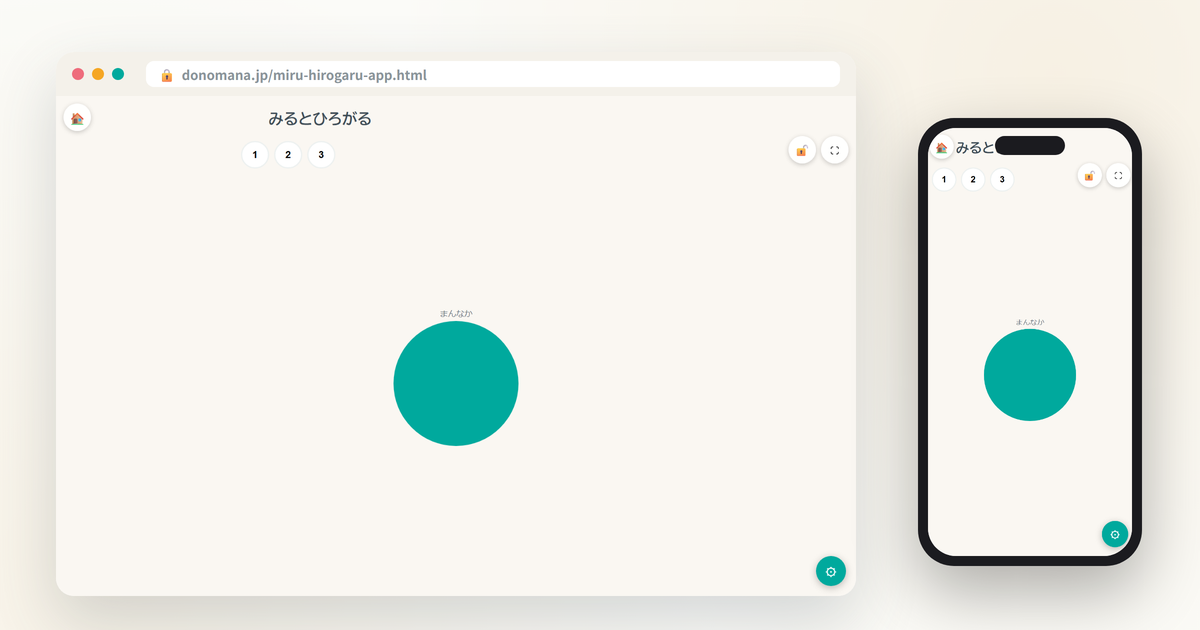
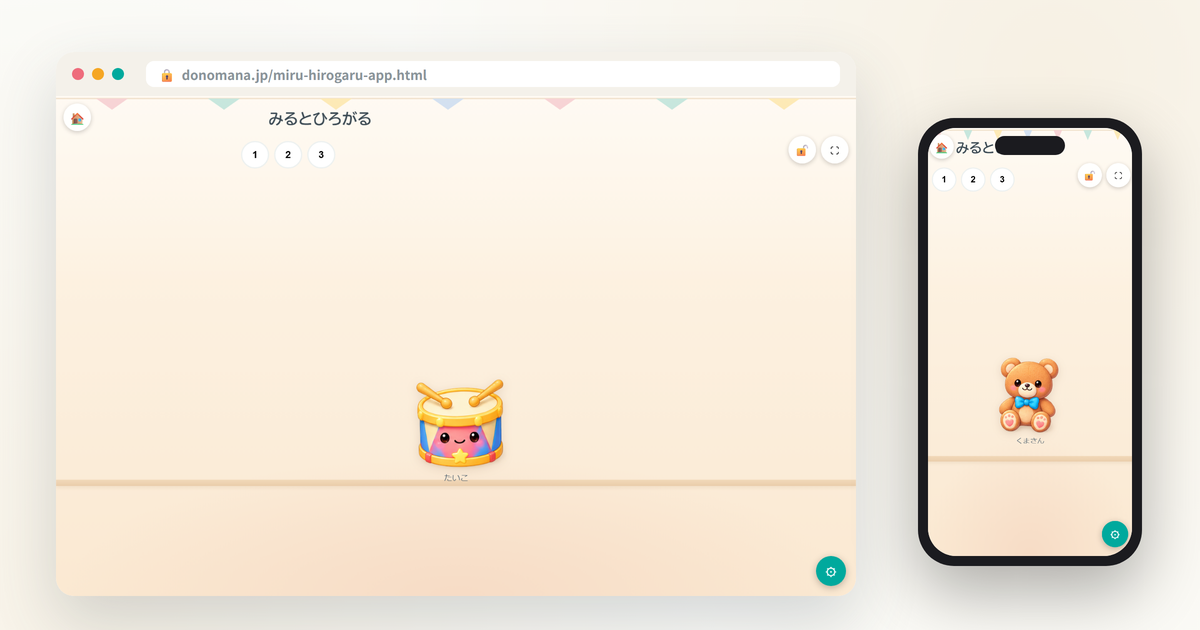
feat: release miru hirogaru engagement redesign
Bring the miru-hirogaru-app.html and apps-data.json descriptions in sync
with the Phase M8 Engagement Redesign (already merged to main): fix a few
app-details/app-intro/index.html text fragments that still described the
old circle/square/triangle "color spreading" targets, add a changelog entry,
and regenerate the toy-room mockup image (assets/icons unchanged since its
inputs are unaffected by the visual redesign).

Regenerated via node generate.js + tools/make-mockups.py miru-hirogaru-app.

diff --git a/app-details/miru-hirogaru-app-detail.html b/app-details/miru-hirogaru-app-detail.html
@@ -4,7 +4,7 @@
 <meta charset="UTF-8">
 <meta name="viewport" content="width=device-width, initial-scale=1.0">
 <title>みるとひろがる 重度・重複障害向け因果関係学習アプリ 無料｜スイッチ・視線入力対応 - どのまな</title>
-<meta name="description" content="見る・触れる・スイッチを押すと画面が広がって変化する無料学習アプリ。正解・不正解のないsuccess-only設計で、重度・重複障害のある子どもの因果関係理解を育てます。タッチ・視線入力・スイッチスキャン・キーボードに対応。">
+<meta name="description" content="見る・触れる・スイッチを押すと、おもちゃが動いたり音が鳴ったりして応えてくれる無料学習アプリ。正解・不正解のないsuccess-only設計で、重度・重複障害のある子どもの因果関係理解を育てます。タッチ・視線入力・スイッチスキャン・キーボードに対応。">
 <meta name="keywords" content="因果関係 学習 アプリ 無料, 重度重複障害 教材, スイッチスキャン 視線入力 学習アプリ, スイッチスキャン対応, スイッチ教材, 視線入力対応, 視線入力アプリ, 認知支援, 療育, 見る, 触れる, スイッチ, 視線入力, 因果関係, 重度重複障害, 特別支援教育, ICT教材, 無料教材, 特別支援学校, 特別支援学級, デジタル教材, ブラウザ教材, インストール不要">
 <meta name="author" content="どのまな">
 
@@ -13,7 +13,7 @@
 
 <!-- Open Graph / SNS共有用 -->
 <meta property="og:title" content="みるとひろがる 重度・重複障害向け因果関係学習アプリ 無料｜スイッチ・視線入力対応 - どのまな">
-<meta property="og:description" content="見る・触れる・スイッチを押すと画面が広がって変化する無料学習アプリ。正解・不正解のないsuccess-only設計で、重度・重複障害のある子どもの因果関係理解を育てます。タッチ・視線入力・スイッチスキャン・キーボードに対応。">
+<meta property="og:description" content="見る・触れる・スイッチを押すと、おもちゃが動いたり音が鳴ったりして応えてくれる無料学習アプリ。正解・不正解のないsuccess-only設計で、重度・重複障害のある子どもの因果関係理解を育てます。タッチ・視線入力・スイッチスキャン・キーボードに対応。">
 <meta property="og:type" content="website">
 <meta property="og:url" content="https://donomana.jp/app-details/miru-hirogaru-app-detail.html">
 <meta property="og:locale" content="ja_JP">
@@ -25,7 +25,7 @@
 <!-- Twitter Card -->
 <meta name="twitter:card" content="summary_large_image">
 <meta name="twitter:title" content="みるとひろがる｜認知支援アプリ(特別支援教育・無料)|スイッチ・視線入力対応">
-<meta name="twitter:description" content="見る・触れる・スイッチを押すと画面が広がって変化する無料学習アプリ。正解・不正解のないsuccess-only設計で、重度・重複障害のある子どもの因果関係理解を育てます。タッチ・視線入力・スイッチスキャン・キーボードに対応。">
+<meta name="twitter:description" content="見る・触れる・スイッチを押すと、おもちゃが動いたり音が鳴ったりして応えてくれる無料学習アプリ。正解・不正解のないsuccess-only設計で、重度・重複障害のある子どもの因果関係理解を育てます。タッチ・視線入力・スイッチスキャン・キーボー">
 <meta name="twitter:image" content="https://donomana.jp/assets/mockups/miru-hirogaru-app.png">
 
 <!-- 構造化データ(JSON-LD) -->
@@ -37,7 +37,7 @@
     "LearningResource"
   ],
   "name": "みるとひろがる",
-  "description": "見る・触れる・スイッチを押すと画面が広がって変化する、初期的な因果関係を楽しむ教材です。タッチ、キーボード、スイッチ、視線入力など、一人ひとりに合った方法で参加できます。正解・不正解はなく、働きかけた",
+  "description": "見る・触れる・スイッチを押すと、おもちゃが動いたり音が鳴ったりして応えてくれる、初期的な因果関係を楽しむ教材です。タッチ、キーボード、スイッチ、視線入力など、一人ひとりに合った方法で参加できます。正解",
   "url": "https://donomana.jp/app-details/miru-hirogaru-app-detail.html",
   "image": "https://donomana.jp/assets/mockups/miru-hirogaru-app.png",
   "applicationCategory": "EducationalApplication",
@@ -215,22 +215,22 @@
   </a>
   <div class="card">
     <h2 class="card-title">概要・ねらい</h2>
-    <p class="summary-text">見る・触れる・スイッチを押すと画面が広がって変化する、初期的な因果関係を楽しむ教材です。タッチ、キーボード、スイッチ、視線入力など、一人ひとりに合った方法で参加できます。正解・不正解はなく、働きかけたこと自体が成功として扱われます。</p>
+    <p class="summary-text">見る・触れる・スイッチを押すと、おもちゃが動いたり音が鳴ったりして応えてくれる、初期的な因果関係を楽しむ教材です。タッチ、キーボード、スイッチ、視線入力など、一人ひとりに合った方法で参加できます。正解・不正解はなく、働きかけたこと自体が成功として扱われます。</p>
   </div>
   <div class="card">
     <h2 class="card-title">主な機能</h2>
     <div class="feature-grid">
       <div class="feature-item">
-        <span class="fi-icon">⭕</span>
-        <span class="fi-text"><strong>レベル1：ひとつ</strong><br>画面中央の大きな1つの的に働きかけると、色がやさしく広がって変化します。正解・不正解はありません。</span>
+        <span class="fi-icon">🧸</span>
+        <span class="fi-text"><strong>レベル1：ひとつ</strong><br>画面中央の大きな1つのおもちゃに働きかけると、動いたり音が鳴ったりして応えます。正解・不正解はありません。</span>
       </div>
       <div class="feature-item">
         <span class="fi-icon">↔</span>
         <span class="fi-text"><strong>レベル2：ふたつ</strong><br>左右2つの的から、注目したほうへ働きかけます。どちらを選んでも成功として扱われます。</span>
       </div>
       <div class="feature-item">
-        <span class="fi-icon">🔺</span>
-        <span class="fi-text"><strong>レベル3：みっつ</strong><br>3つの的が並び、どれに働きかけても色が広がります。注意を移す力を育てます。</span>
+        <span class="fi-icon">🏠</span>
+        <span class="fi-text"><strong>レベル3：みっつ</strong><br>3つのおもちゃが並び、働きかけるたびに音が鳴って応えます。すべてに働きかけると、お部屋がにぎやかになります。注意を移す力を育てます。</span>
       </div>
       <div class="feature-item">
         <span class="fi-icon">👁</span>
@@ -242,7 +242,7 @@
       </div>
       <div class="feature-item">
         <span class="fi-icon">🔊</span>
-        <span class="fi-text"><strong>やさしい音とアニメーション</strong><br>働きかけると短くやさしい音と色の広がりで応えます。音はオフにもできます。</span>
+        <span class="fi-text"><strong>やさしい音とアニメーション</strong><br>働きかけると短くやさしい音とおもちゃの動きで応えます。音はオフにもできます。</span>
       </div>
       <div class="feature-item">
         <span class="fi-icon">📋</span>
@@ -270,7 +270,7 @@
         <div class="step-num">3</div>
         <div class="step-body">
           <div class="step-label">レベル3でみっつに挑戦</div>
-          <div class="step-desc">3つの的のどれに働きかけても、色が広がります。</div>
+          <div class="step-desc">3つのおもちゃのどれに働きかけても、動いたり音が鳴ったりします。すべてに働きかけると、お部屋がにぎやかになります。</div>
         </div>
       </div>
       <div class="step">
@@ -287,7 +287,7 @@
       <tr><th>対象</th><td>重度・重複障害のある子どもなど、意図的な手指操作が難しかったり、視線入力や1〜2個のスイッチが主な入力手段となる子ども。因果関係の理解が形成される段階の学習にも活用できます。</td></tr>
       <tr><th>ねらい</th><td>自分の働きかけによって画面に変化が起こることに気づき、見る・触れる・スイッチを押すなどの行動と結果のつながりを経験する。</td></tr>
       <tr><th>使い方</th><td>レベル1から、子どものペースで進めます。正解・不正解はなく、働きかけたこと自体を成功として扱います。タッチ・視線入力・スイッチスキャン・キーボードを同時に使うことができ、入力方法を選ぶ画面はありません。10回働きかけるごとに、やさしい区切りの表示が出ますが、続けて遊ぶこともできます。</td></tr>
-      <tr><th>工夫</th><td>視線入力とスイッチスキャンは同時にオンにできます。刺激が強くなりすぎないよう、ゆるやかな色の広がりとやさしい音に抑えています。</td></tr>
+      <tr><th>工夫</th><td>視線入力とスイッチスキャンは同時にオンにできます。刺激が強くなりすぎないよう、おだやかな動き・表情の変化とやさしい音に抑えています。</td></tr>
     </table>
   </div>
   <div class="card">

diff --git a/app-intro.html b/app-intro.html
@@ -981,7 +981,7 @@
         ],
         "name": "みるとひろがる",
         "url": "https://donomana.jp/app-details/miru-hirogaru-app-detail.html",
-        "description": "見る・触れる・スイッチを押すと画面が広がって変化する、初期的な因果関係を楽しむ教材です。タッチ、キーボード、スイッチ、視線入力など、一人ひとりに合った方法で参加できます。正解・不正解はなく、働きかけた",
+        "description": "見る・触れる・スイッチを押すと、おもちゃが動いたり音が鳴ったりして応えてくれる、初期的な因果関係を楽しむ教材です。タッチ、キーボード、スイッチ、視線入力など、一人ひとりに合った方法で参加できます。正解",
         "learningResourceType": "教育用ICTアプリ",
         "isAccessibleForFree": true,
         "inLanguage": "ja",
@@ -1816,17 +1816,17 @@
         </div>
       </div>
       <div class="intro-body">
-        <div><div class="intro-section-title">概要・ねらい</div><p class="intro-text">見る・触れる・スイッチを押すと画面が広がって変化する、初期的な因果関係を楽しむ教材です。タッチ、キーボード、スイッチ、視線入力など、一人ひとりに合った方法で参加できます。正解・不正解はなく、働きかけたこと自体が成功として扱われます。</p></div>
+        <div><div class="intro-section-title">概要・ねらい</div><p class="intro-text">見る・触れる・スイッチを押すと、おもちゃが動いたり音が鳴ったりして応えてくれる、初期的な因果関係を楽しむ教材です。タッチ、キーボード、スイッチ、視線入力など、一人ひとりに合った方法で参加できます。正解・不正解はなく、働きかけたこと自体が成功として扱われます。</p></div>
         <div><div class="intro-section-title">主な機能</div><ul class="feature-list">
-          <li>⭕ レベル1：ひとつ：画面中央の大きな1つの的に働きかけると、色がやさしく広がって変化します。正解・不正解はありません。</li>
+          <li>🧸 レベル1：ひとつ：画面中央の大きな1つのおもちゃに働きかけると、動いたり音が鳴ったりして応えます。正解・不正解はありません。</li>
           <li>↔ レベル2：ふたつ：左右2つの的から、注目したほうへ働きかけます。どちらを選んでも成功として扱われます。</li>
-          <li>🔺 レベル3：みっつ：3つの的が並び、どれに働きかけても色が広がります。注意を移す力を育てます。</li>
+          <li>🏠 レベル3：みっつ：3つのおもちゃが並び、働きかけるたびに音が鳴って応えます。すべてに働きかけると、お部屋がにぎやかになります。注意を移す力を育てます。</li>
           <li>👁 視線入力対応：見つめる（ドウェル）だけで働きかけられます。</li>
           <li>🔘 スイッチスキャン対応：的が1つのときはスイッチを押すだけで、2つ以上のときは自動で移動する候補から選べます。</li>
-          <li>🔊 やさしい音とアニメーション：働きかけると短くやさしい音と色の広がりで応えます。音はオフにもできます。</li>
+          <li>🔊 やさしい音とアニメーション：働きかけると短くやさしい音とおもちゃの動きで応えます。音はオフにもできます。</li>
           <li>📋 きろく：アクセシビリティ設定内の詳細設定から、働きかけた回数や入力方法などの記録を確認でき、CSVでも書き出せます。</li>
         </ul></div>
-        <div><div class="intro-section-title">使い方</div><p class="intro-text">1. レベル1からはじめる：画面中央の的に、見る・触れる・スイッチなどで働きかけてみましょう。 2. レベル2でふたつに挑戦：左右2つの的から、注目したほうへ働きかけます。 3. レベル3でみっつに挑戦：3つの的のどれに働きかけても、色が広がります。 4. 入力方法を選ぶ：タッチ・キーボード・スイッチスキャン・視線入力から、その子に合った方法で参加できます。</p></div>
+        <div><div class="intro-section-title">使い方</div><p class="intro-text">1. レベル1からはじめる：画面中央の的に、見る・触れる・スイッチなどで働きかけてみましょう。 2. レベル2でふたつに挑戦：左右2つの的から、注目したほうへ働きかけます。 3. レベル3でみっつに挑戦：3つのおもちゃのどれに働きかけても、動いたり音が鳴ったりします。すべてに働きかけると、お部屋がにぎやかになります。 4. 入力方法を選ぶ：タッチ・キーボード・スイッチスキャン・視線入力から、その子に合った方法で参加できます。</p></div>
         <div><div class="intro-section-title">アクセシビリティ</div><div class="access-badges">
                     <span class="access-badge">🔘 スイッチスキャン対応</span>          <span class="access-badge">👁 視線入力（ドウェル選択）対応</span>          <span class="access-badge">🔊 音・効果音オフ可</span>          <span class="access-badge">⬛ ハイコントラスト対応</span>          <span class="access-badge">🎬 アニメーション軽減対応</span>          <span class="access-badge">📱 iPad・スマートフォン対応</span>
         </div></div>
@@ -1834,7 +1834,7 @@
           <div class="practice-item"><span class="practice-label">対象</span><span class="practice-text">重度・重複障害のある子どもなど、意図的な手指操作が難しかったり、視線入力や1〜2個のスイッチが主な入力手段となる子ども。因果関係の理解が形成される段階の学習にも活用できます。</span></div>
           <div class="practice-item"><span class="practice-label">ねらい</span><span class="practice-text">自分の働きかけによって画面に変化が起こることに気づき、見る・触れる・スイッチを押すなどの行動と結果のつながりを経験する。</span></div>
           <div class="practice-item"><span class="practice-label">使い方</span><span class="practice-text">レベル1から、子どものペースで進めます。正解・不正解はなく、働きかけたこと自体を成功として扱います。タッチ・視線入力・スイッチスキャン・キーボードを同時に使うことができ、入力方法を選ぶ画面はありません。10回働きかけるごとに、やさしい区切りの表示が出ますが、続けて遊ぶこともできます。</span></div>
-          <div class="practice-item"><span class="practice-label">工夫</span><span class="practice-text">視線入力とスイッチスキャンは同時にオンにできます。刺激が強くなりすぎないよう、ゆるやかな色の広がりとやさしい音に抑えています。</span></div>
+          <div class="practice-item"><span class="practice-label">工夫</span><span class="practice-text">視線入力とスイッチスキャンは同時にオンにできます。刺激が強くなりすぎないよう、おだやかな動き・表情の変化とやさしい音に抑えています。</span></div>
         </div></div>
         <div><div class="intro-section-title">使用上の留意点</div><div class="caution-box"><p>設定・学習記録はブラウザのローカルストレージに保存されます。ブラウザのデータを削除すると消去されますのでご留意ください。</p></div></div>
       </div>

diff --git a/index.html b/index.html
@@ -1684,7 +1684,7 @@
         ],
         "name": "みるとひろがる",
         "url": "https://donomana.jp/app-details/miru-hirogaru-app-detail.html",
-        "description": "見る・触れる・スイッチを押すと画面が広がって変化する、初期的な因果関係を楽しむ教材です。タッチ、キーボード、スイッチ、視線入力など、一人ひとりに合った方法で参加できます。正解・不正解はなく、働きかけた",
+        "description": "見る・触れる・スイッチを押すと、おもちゃが動いたり音が鳴ったりして応えてくれる、初期的な因果関係を楽しむ教材です。タッチ、キーボード、スイッチ、視線入力など、一人ひとりに合った方法で参加できます。正解",
         "learningResourceType": "教育用ICTアプリ",
         "isAccessibleForFree": true,
         "inLanguage": "ja",
@@ -2185,6 +2185,7 @@
 
 <script>
 const CHANGELOG = [
+  { date: "2026年8月14日", type: "design", text: "「みるとひろがる」のデザインを、より楽しく親しみやすく改善しました。", updateCount: 1 },
   { date: "2026年8月13日", type: "new", text: "新しい教材を2つ追加し、「かたちをあわせよう」を改善しました", details: ["「みるとひろがる」を公開しました","「どこかな？みーつけた！」を公開しました","「かたちをあわせよう」に大きさを見分ける学習を追加し、図形の見やすさや操作性も改善しました"], updateCount: 3 },
   { date: "2026年8月12日", type: "new", text: "新しい教材を2つ追加し、いくつかの教材を改善しました", details: ["「おおきい？ちいさい？くらべよう」を公開しました","「おおきい？ちいさい？くらべよう」に「ながい・みじかい」の学習や、大きさ・長さの順に3つ並べる学習を追加し、問題数の選択や学習記録の確認・CSV書き出しができるようにしました。また、画面の見やすさや操作性も改善しました。","「かたちをあわせよう」を公開しました","「かたちをあわせよう」の図形の見やすさ、操作性を改善しました","「なぞり書き練習ツール」で、スイッチ操作中にスペースキーやEnterキーでボタンを選べない問題を修正しました。","「視線入力キーボード」で、よく使うフレーズやAACカード、予測変換の候補を選んでも、入力欄に反映されないことがある問題を修正しました。","「ひらがな まなぼう！」で、スイッチ操作のときに1回の操作で複数回反応してしまうことがある問題（マッチングで選んでもすぐ選択が消えてしまうなど）と、スイッチ操作を終了した直後に、選択位置が意図せず動いてしまうことがある問題を修正しました。","「すうじ まなぼう！」で、スイッチ操作のときに1回の操作で複数回反応してしまうことがある問題（マッチングで選んでもすぐ選択が消えてしまうなど）と、スイッチ操作を終了した直後に、選択位置が意図せず動いてしまうことがある問題を修正しました。"], updateCount: 8 },
   { date: "2026年8月11日", type: "update", text: "いくつかの教材を改善しました", details: ["「すごろく」スイッチ操作でスキャンをオフにした直後に、選んだボタンのハイライトが消えずに残ってしまうことがある問題を修正しました。","「おんがくあそび」スイッチ操作でスキャン中に、アクセシビリティ設定などの共通ボタンを選んで決定すると操作できなくなる問題を修正しました。"], updateCount: 2 },
@@ -2359,7 +2360,7 @@ const APPS = [
     a11yText:"👁 視線入力対応（Tobii・見るマウス） 🔘 スイッチスキャン対応（1・2スイッチ） 👆 タップ操作対応 🐢 アニメーション速度調整 🌗 ハイコントラスト対応 🎨 単色カップモード 📱 iPad・スマートフォン対応", featuresText:"カップ数の選択 みつめてえらぶ スイッチスキャン うごきをゆっくり カップのいろ"
   },
   {
-    name: "みるとひろがる", link: "app-details/miru-hirogaru-app-detail.html", icon: "🔆", iconImg: "assets/icons/miru-hirogaru-app.png", mockupImg: "assets/mockups/miru-hirogaru-app.png", desc: "見る・触れる・スイッチを押すと画面が広がって変化する、初期的", tag: "見る・触れる・スイッチ・視線入力・因果関係・重度重複障害",
+    name: "みるとひろがる", link: "app-details/miru-hirogaru-app-detail.html", icon: "🔆", iconImg: "assets/icons/miru-hirogaru-app.png", mockupImg: "assets/mockups/miru-hirogaru-app.png", desc: "見る・触れる・スイッチを押すと、おもちゃが動いたり音が鳴った", tag: "見る・触れる・スイッチ・視線入力・因果関係・重度重複障害",
     category: "ninchi", cardClass: "card-miru-hirogaru-app", isNew: true,
     need:[], input:["touch","gaze","switch","keyboard"],
     needText:"", inputText:"touch タッチ gaze 視線 視線入力 switch スイッチ スイッチ入力 keyboard キーボード",

diff --git a/miru-hirogaru-app.html b/miru-hirogaru-app.html
@@ -6,7 +6,7 @@
 <title>みるとひろがる</title>
 <!-- seo-tags: 自動挿入 (generate.js) -->
 <link rel="canonical" href="https://donomana.jp/app-details/miru-hirogaru-app-detail.html">
-<meta name="description" content="見る・触れる・スイッチを押すと画面が広がって変化する、初期的な因果関係を楽しむ教材です。タッチ、キーボード、スイッチ、視線入力など、一人ひとりに合った方法で参加できます。正解・不正解はなく、働きかけたこと自体が成功として 特別支援教育向けの無料Webアプリ。インストール不要でブラウザからすぐ使えます。">
+<meta name="description" content="見る・触れる・スイッチを押すと、おもちゃが動いたり音が鳴ったりして応えてくれる、初期的な因果関係を楽しむ教材です。タッチ、キーボード、スイッチ、視線入力など、一人ひとりに合った方法で参加できます。正解・不正解はなく、働き 特別支援教育向けの無料Webアプリ。インストール不要でブラウザからすぐ使えます。">
 <!-- /seo-tags -->
 <!-- design-tokens: 自動挿入 (generate.js) -->
 <style>

diff --git a/generate.js b/generate.js
@@ -1610,6 +1610,10 @@ function updateAppIntroHTML(apps) {
 //   修正箇所を配列で書くと、更新履歴上でクリックすると開く内訳として表示される。
 //   例: details: ["音が鳴らない問題を修正", "設定が保存されない問題を修正"]
 const MANUAL_CHANGELOG = [
+  { date: "2026-08-14", type: "design", text: "「みるとひろがる」のデザインを、より楽しく親しみやすく改善しました。", details: [
+    "6種類のかわいいおもちゃが登場する「おもちゃのへや」に生まれ変わりました。",
+    "働きかけると、おもちゃが動いたり音が鳴ったりして応えてくれます。",
+  ] },
   { date: "2026-08-13", type: "update", text: "各アプリの不具合をまとめて修正しました。", details: [
     "「かたちをあわせよう」に大きさを見分ける学習を追加し、図形の見やすさや操作性も改善しました",
   ] },
